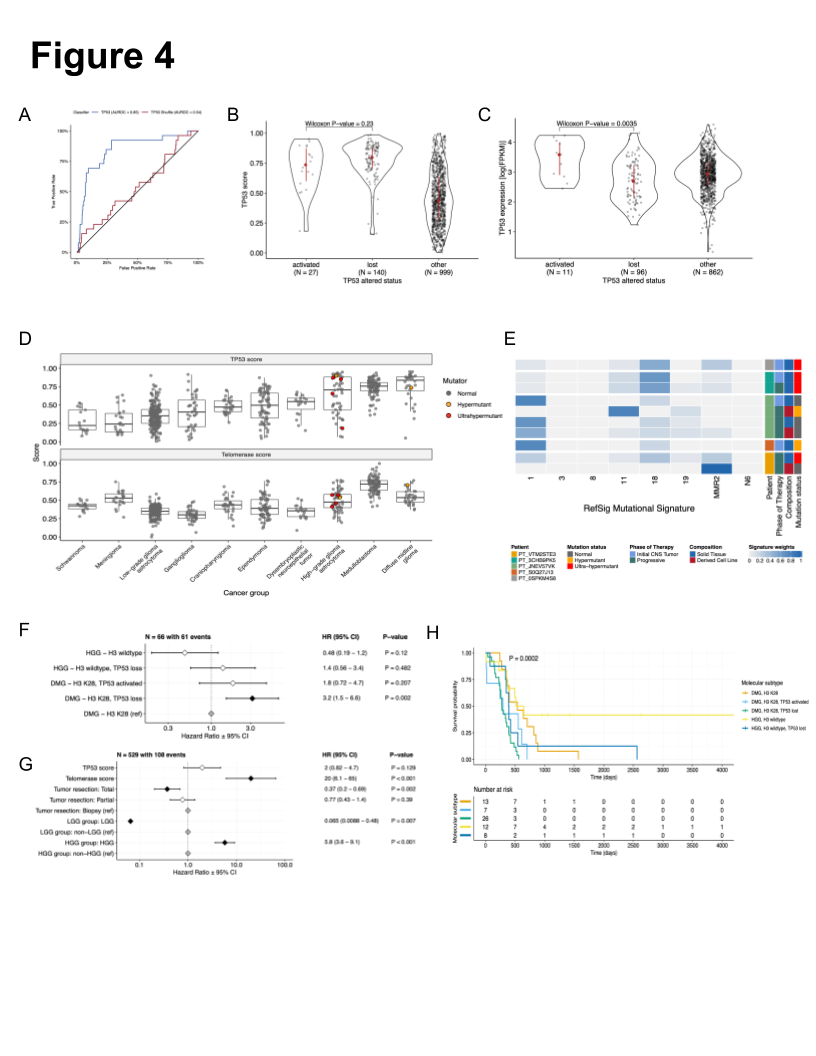
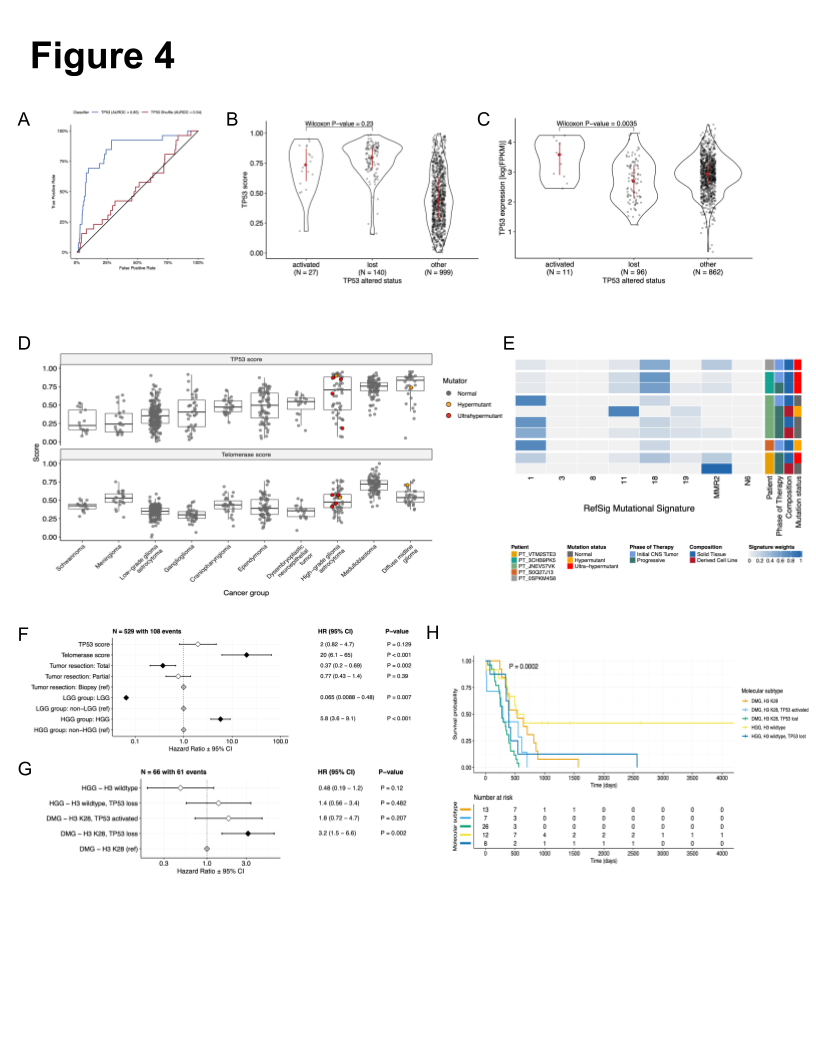
add figure 4 results

diff --git a/content/03.results.md b/content/03.results.md
@@ -36,7 +36,7 @@ More recently, in 2016 and 2021 [@doi:10.1007/s00401-016-1545-1; @doi:10.1093/ne
 The Children’s Brain Tumor Tissue Consortium (CBTTC), currently the Children’s Brain Tumor Network (CBTN), opened its protocol for brain tumor and matched normal sample collection in 2011 and as such, the majority of the samples within the OpenPBTA dataset lack molecular subtype annotation. 
 In the absence of methylation arrays commonly used for tumor classification, we coupled key genomic features of tumor entities described by the WHO in 2016 and low-grade glioma (LGG) subtypes described by Ryall and colleagues [@doi:10.1016/j.ccell.2020.03.011] with clinician and pathologist review to subtype 64% (1,281/2,007) of tumor biospecimens with high confidence (**Table S1**).
 Importantly, this collaborative molecular subtyping process allowed us to identify data entry errors (e.g., an ETMR entered as a medulloblastoma) and mis-identified specimens (e.g., Ewing sarcoma sample labeled as a craniopharyngioma), update diagnoses using modern terms (e.g., primitive neuro-ectodermal tumor [PNET] diagnoses), and discover rarer tumor entities within the OpenPBTA (e.g., H3-mutant ependymoma, meningioma with _YAP1::FAM118B_ fusion).
-**\*@tbl:T1** lists the subtypes we defined within the OpenPBTA, comprising of LGATs (N = 569), high-grade gliomas (N = 314), embryonal tumors (N = 229), ependymomas (N = 65), tumors of sellar region (N = 51), mesenchymal non-meningothelial tumors (N = 21), glialneuronal tumors (N = 20), and chordomas (N = 12). 
+**Table 1** lists the subtypes we defined within the OpenPBTA, comprising of LGATs (N = 569), high-grade gliomas (N = 314), embryonal tumors (N = 229), ependymomas (N = 65), tumors of sellar region (N = 51), mesenchymal non-meningothelial tumors (N = 21), glialneuronal tumors (N = 20), and chordomas (N = 12). 
 or detailed methods, see **STAR Methods** and **Figure {@fig:S1}**. 
 
 | Broad histology                               | OpenPBTA molecular subtype                        | n    |
@@ -109,7 +109,7 @@ or detailed methods, see **STAR Methods** and **Figure {@fig:S1}**.
 |                                               | Total                                    | 1281 |
 
 
-Table 1: Molecular subtypes determined across OpenPBTA samples. {#tbl:T1 tag="1"}
+Table 1: Molecular subtypes determined across OpenPBTA samples.
 
 
 ### Somatic Mutational Landscape of Pediatric Brain Tumors
@@ -175,6 +175,7 @@ This trend may be the result of therapy-induced mutations which produce addition
 ### Transcriptomic Landscape of Pediatric Brain Tumors
 
 #### Prediction of _TP53_ oncogenicity and telomerase activity
+
 To understand the _TP53_ phenotype in each tumor, we ran a classifier previously trained on TCGA [@doi:10.1016/j.celrep.2018.03.076] to infer _TP53_ inactivation status.
 Using high-confidence SNVs, CNVs, SVs, and fusions in _TP53_ as true positive alterations, we achieved a high accuracy (AUROC = 0.85) for rRNA-depleted, stranded samples compared to randomly shuffled _TP53_ scores (**Figure {@fig:Fig4}A**). 
 The classifier did not perform well on the poly-A samples (**Figure {@fig:S5}A**), potentially due to the low number of _TP53_ altered (N = 29) and/or total poly-A samples in our dataset (N = 58) rather than library type, as a previous study demonstrated high accuracy of this classifier on another poly-A dataset [@doi:10.1016/j.celrep.2019.09.071].
@@ -193,17 +194,18 @@ We found aggressive tumors such as CNS lymphoma, ETMR, ATRT, DMG, and HGG had hi
 This supports previous reports of a more aggressive phenotype in tumors with higher telomerase activity	[@doi:10.1007/s13277-016-5045-7;10.1038/labinvest.3700710;10.1007/s12032-016-0736-x;10.1111/j.1750-3639.2010.00372.x].
 
 #### Hypermutant tumors share mutational signatures and have dysregulated **_TP53_**
-We further investigated the mutational signature profiles of the hypermutant (N = 2) and ultra-hypermutant (N = 4) tumors and/or derived cell lines from five patients in the OpenPBTA cohort.
-The relative contributions of eight RefSig mutational signatures are shown in the heatmap in **Figure {@fig:Fig4}E** for all tumors from patients with at least one tumor or cell line with a TMB >= 10 Mut/Mb.
-Signature 11, a suggested exposure to temozolomide, was indeed present in tumors with previous exposure to the drug.
-We found the MMR2 signature in tumors of four patients (PT_0SPKM4S8, PT_3CHB9PK5, PT_JNEV57VK, and PT_VTM2STE3) diagnosed with Lynch syndrome (**\+tbl:T2**), a genetic predisposition syndrome caused by a variant in a mismatch repair gene such as _PMS2_, _MLH1_, _MSH2_, _MSH6_, or others [@doi:10.3390/genes5030497].
-Interestingly, the cell line derived from patient PT_VTM2STE3's tumor at progression exposed to _only_ MMR2, but was not hypermutated (TMB = 5.74), suggesting there was selective pressure to maintain an MMR phenotype _in vitro_.
-From patient PT_JNEV57VK, only one of the two cell lines derived from a progressive tumor was hypermutant (TMB of 35.9 Mut/Mb).
-The hypermutated cell line had a strong signature 11, while the non-hypermutated cell line from the same tumor showed more smaller exposures (1, 11, 18, 19, MMR2), highlighting the importance of carefully genomically characterizing and selecting models for preclinical studies.
+
+We further investigated the mutational signature profiles of the hypermutant (N = 2) and ultra-hypermutant (N = 4) HGG tumors and/or derived cell lines from five patients in the OpenPBTA cohort.
+The relative contributions of eight RefSig mutational signatures are shown in the heatmap in **Figure {@fig:Fig4}E** for all tumors from patients with at least one tumor or cell line having a TMB >= 10 Mut/Mb.
+Signature 11, a suggested exposure to temozolomide, was indeed present in tumors with previous exposure to the drug (**Table 2**).
+We found the MMR2 signature in tumors of four patients (PT_0SPKM4S8, PT_3CHB9PK5, PT_JNEV57VK, and PT_VTM2STE3) diagnosed with Lynch syndrome (**Table 2**), a genetic predisposition syndrome caused by a variant in a mismatch repair gene such as _PMS2_, _MLH1_, _MSH2_, _MSH6_, or others [@doi:10.3390/genes5030497].
+Interestingly, the cell line derived from patient PT_VTM2STE3's tumor at progression was not hypermutated (TMB = 5.74) but shows exposure to _only_ the MMR2 signature, suggesting there was selective pressure to maintain an MMR phenotype _in vitro_.
+From patient PT_JNEV57VK, only one of the two cell lines derived from the progressive tumor was hypermutant (TMB of 35.9 Mut/Mb).
+The hypermutated cell line had a strong signature 11, while the non-hypermutated cell line from the same tumor showed a number of lesser exposures (1, 11, 18, 19, MMR2), highlighting the importance of carefully genomically characterizing and selecting models for preclinical studies based on research objectives.
 We observed that signature 18, which has been associated with high genomic instability and can lead to a hypermutator phenotype [@doi:10.1038/s43018-020-0027-5], is uniformly represented among hypermutant solid tumors. 
-All tumors and cell lines were HGGs that we found to have dysfunctional _TP53_ (**\+tbl:T2**), consistent with a previous report showing dysregulation of _TP53_ is a dependency in tumors with high genomic instability [@doi:10.1038/s43018-020-0027-5].
+Additionally, we found that all of these tumor or cell lines have dysfunctional _TP53_ (**Table 2**), consistent with a previous report showing dysregulation of _TP53_ is a dependency in tumors with high genomic instability [@doi:10.1038/s43018-020-0027-5].
 With one exception, hypermutant and ultra-hypermutant tumors had high _TP53_ scores and telomerase activity **Figure {@fig:Fig4}D**.
-Interestingly, none of the samples were exposed to signatures 3 (exposure in homologous recombination [HR]deficient tumors), 8 (double nucleotide substitutions/unknown etiology), or N6 (universal CNS tumor signature).
+Interestingly, none of the samples were exposed to signatures 3 (present in homologous recombination deficient tumors), signature 8 (arises from double nucleotide substitutions/unknown etiology), or signature N6 (a universal CNS tumor signature).
 The mutual exclusivity of signatures 3 and MMR corroborates a previous report suggesting tumors do not have both deficient homologous repair and mismatch repair [@doi:10.1016/j.celrep.2018.03.076].
 
 | Kids First Participant ID | Kids First Biospecimen ID | CBTN ID   | Phase of therapy  | Composition       | Therapy post-biopsy                              | Cancer predisposition(s)              | TMB                | OpenPBTA molecular subtype       |
@@ -220,20 +222,20 @@ The mutual exclusivity of signatures 3 and MMR corroborates a previous report su
 | PT_VTM2STE3               | BS_02YBZSBY               | 7316-2189 | Progressive       | Solid Tissue      | Unknown                                          | Lynch Syndrome                        | 274.48805695576783 | HGG, H3 wildtype, TP53 activated |
 
 
-Table 2. Patients with hypermutant tumors. {#tbl:T2 tag="2"}	
+Table 2. Patients with hypermutant tumors.	
 
-Next, we asked whether transcriptomic scoring of _TP53_ dysregulation and/or telomerase activity recapitulate the known prognostic influence of these oncogenic biomarkers.
-We performed multivariate cox regression for overall survival (**Figure {@fig:Fig4}F**).
-As expected, we show a significant negative effect on survival if the tumor belonged to the HGG group (HR = 8.7, CI = 5.59-13.52, p < 0.01).
-Additionally, high telomerase scores were poor prognostic indicator across brain tumor histologies (HR = 41.97, CI = 13.16-133.93, p < 0.01), demonstrating that EXTEND scores calculated from RNA-Seq can be used as a rapid surrogate measure for telomerase activity.
-Higher _TP53_ scores, indicative of dysregulation of the _TP53_ gene or pathway, neared significance (HR = 2.25, CI = 0.93-5.47, p = 0.072) for an increased risk of lower overall survival.
+Next, we asked whether transcriptomic classification of _TP53_ dysregulation and/or telomerase activity recapitulate the known prognostic influence of these oncogenic biomarkers.
+We used an additive model to perform multivariate cox regression on overall survival (**STAR Methods**), controlling for extent of tumor resection and whether a tumor was low-grade (LGG group) or high-grade (HGG group). 
+Depicted in the forest plot (**Figure {@fig:Fig4}F**), we show an expected significant overall survival benefit if the tumor was fully resected (HR = 0.37, CI = 0.2-0.69, p = 0.002) or if the tumor belongs to the LGG group (HR = 0.065,, CI = 0.0088-0.48, p = 0.007).
+In contrast, we show an expected significant risk if the tumor belongs to the HGG group (HR = 5.8, CI = 3.6-9.1, p < 0.001).
+High telomerase scores were a poor prognostic indicator across brain tumor histologies (HR = 20, CI = 6.1-65, p < 0.001), demonstrating that EXTEND scores calculated from RNA-Seq can be used as a rapid surrogate measure of telomerase activity.
+Higher _TP53_ scores, indicative of dysregulation of the _TP53_ gene or pathway, while not significant across the entire OpenPBTA cohort, resulted in a significant overall survival risk for both DMGs (HR = 1.79e6, CI = 2-1.45e12, p = 0.04) and ependymomas (HR = 1612, CI = 9.1-3e5, p = 0.005).
 
-Finally, for HGGs only, we assessed the effect of molecular subtypes with and without _TP53_ dysregulation, as determined by _TP53_ classification combined with molecular evidence.
-Cox proportional hazards analysis (**Figure {@fig:Fig4}G**) recapitulate the known increased risk of the H3 K28 mutation compared to H3 wildtype (BH-adjusted p = 0.0027) [@doi:10.1093/neuonc/nox149].
-Furthermore, using _TP53_ classification, we show that DMG H3 K28 tumors with _TP53_ loss have worse prognosis than DMG H3 K28 tumors with wildtype _TP53_.
-Overall survival of HGGs by molecular subtype are visualized by Kaplan-meier in (**Figure {@fig:Fig4}H**). 
+Since we observed the negative prognostic effect of _TP53_ for HGGs, we assessed the effect of molecular subtypes with and without _TP53_ dysregulation, as determined by our _TP53_ classification combined with molecular evidence.
+Using log rank univariate survival modeling (**STAR Methods**), we recapitulate the known increased risk of the H3 K28 mutation compared to H3 wildtype (BH-adjusted p = 0.0027) [@doi:10.1093/neuonc/nox149].
+Furthermore, cox regression analysis revealed that DMG H3 K28 tumors with _TP53_ loss have significantly worse prognosis (HR = 3.2, CI = 1.5-6.6, p = 0.002) than DMG H3 K28 tumors with wildtype _TP53_ **Figure {@fig:Fig4}G**), which is visualized by Kaplan-Meier in **Figure {@fig:Fig4}H**. 
 
-![**Figure 4. _TP53_ and telomerase activity** A, Receiver Operating Characteristic for _TP53_ classifier run on FPKM of stranded RNA-Seq samples. B, Violin and box plots of _TP53_ scores plotted by _TP53_ alteration type (N<sub>activated</sub> = 27, N<sub>lost</sub> = 140, N<sub>other</sub> = 999). C, Violin and box plots of _TP53_ RNA expression plotted by _TP53_ activation status (N<sub>activated</sub> = 11, N<sub>lost</sub> = 96, N<sub>other</sub> = 862). D, Box plots of _TP53_ and telomerase (EXTEND) scores grouped by `cancer_group`. Mutation status is highlighted in orange (hypermutant) or red (ultra-hypermutant). E, Heatmap of RefSig mutational signatures for patients who have least one tumor with a TMB >= 10 Mut/Mb. F, Forest plot depicting the prognostic effects of _TP53_ and telomerase scores on overall survival. G, Forest plot depicting the effect of molecular subtype on overall survival of HGGs. For F and G, hazard ratio (HR) with 95% confidence intervals and p-values are listed. Significant p-values are denoted with colored diamonds. H, Kaplan-meier curve of HGG tumors by molecular subtype.](images/main/Figure4.png){#fig:Fig4}
+![**Figure 4. _TP53_ and telomerase activity** A, Receiver Operating Characteristic for _TP53_ classifier run on FPKM of stranded RNA-Seq samples. B, Violin and box plots of _TP53_ scores plotted by _TP53_ alteration type (N<sub>activated</sub> = 27, N<sub>lost</sub> = 140, N<sub>other</sub> = 999). C, Violin and box plots of _TP53_ RNA expression plotted by _TP53_ activation status (N<sub>activated</sub> = 11, N<sub>lost</sub> = 96, N<sub>other</sub> = 862). D, Box plots of _TP53_ and telomerase (EXTEND) scores grouped by `cancer_group`. Mutation status is highlighted in orange (hypermutant) or red (ultra-hypermutant). E, Heatmap of RefSig mutational signatures for patients who have least one tumor or cell line with a TMB >= 10 Mut/Mb. F, Forest plot depicting the prognostic effects of _TP53_ and telomerase scores on overall survival, controlling for extent of tumor resection, LGG group, and HGG group. G, Forest plot depicting the effect of molecular subtype on overall survival of HGGs. For F and G, hazard ratios (HR) with 95% confidence intervals and p-values are listed. Significant p-values are denoted with black diamonds. Reference groups are denoted by grey diamonds. H, Kaplan-meier curve of HGG tumors by molecular subtype.](images/main/Figure4.png){#fig:Fig4}
 
 
 #### Histologic and oncogenic pathway clustering
